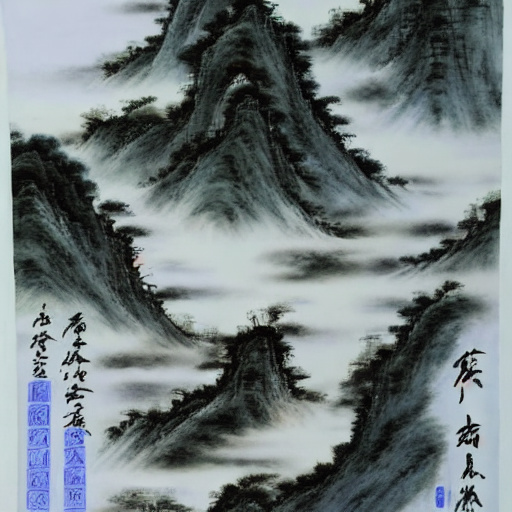
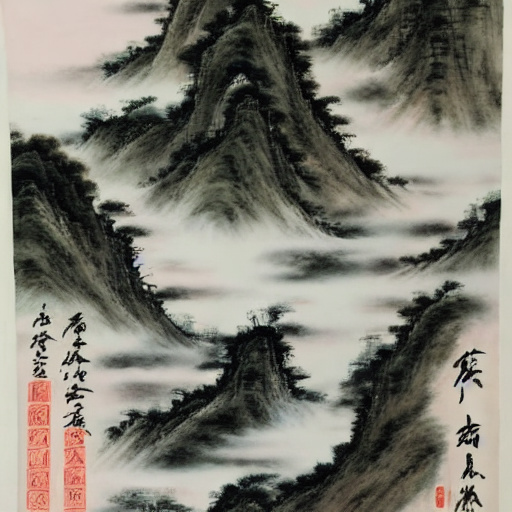
[bugfix:image] bugfix of image format.

diff --git a/src/pipeline.cpp b/src/pipeline.cpp
@@ -40,7 +40,7 @@ Pipeline::Pipeline(std::string modelPath) : mModelPath(modelPath) {
 void Pipeline::loadNet(std::string modelPath) {
     mNet.reset(Interpreter::createFromFile(modelPath.c_str()));
     ScheduleConfig config;
-#if 0
+#if 1
     config.type = MNN_FORWARD_CUDA;
     BackendConfig backendConfig;
     backendConfig.precision = BackendConfig::Precision_Normal;
@@ -169,6 +169,7 @@ VARP Pipeline::vae_decoder(VARP latent) {
     image = _Relu6(image * _Const(0.5) + _Const(0.5), 0, 1);
     image = _Squeeze(_Transpose(image, {0, 2, 3, 1}));
     image = _Cast(_Round(image * _Const(255.0)), halide_type_of<uint8_t>());
+    image = cvtColor(image, COLOR_BGR2RGB);
     image.fix(VARP::CONSTANT);
     return image;
 }
